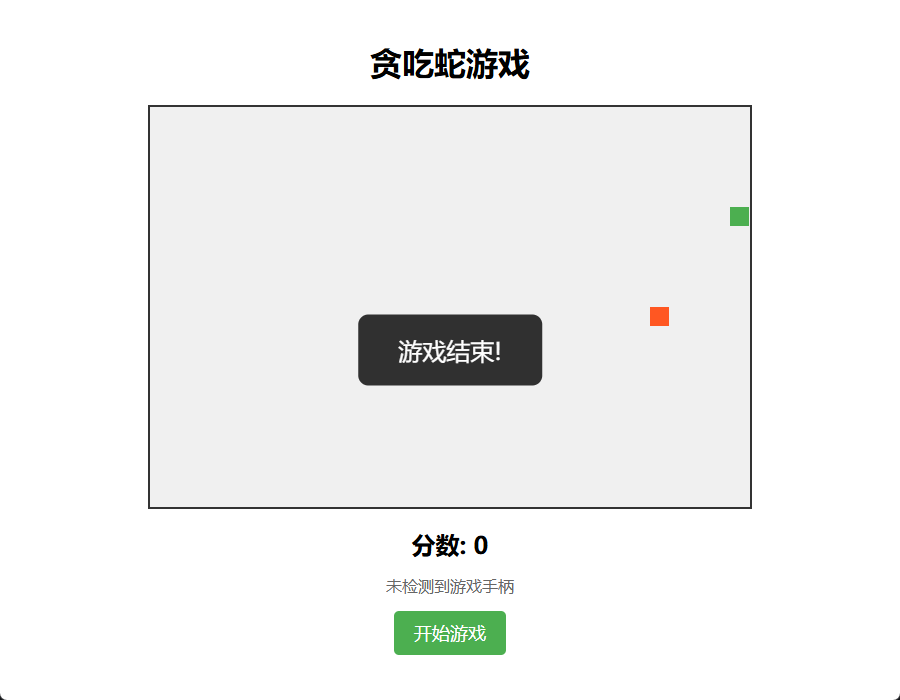
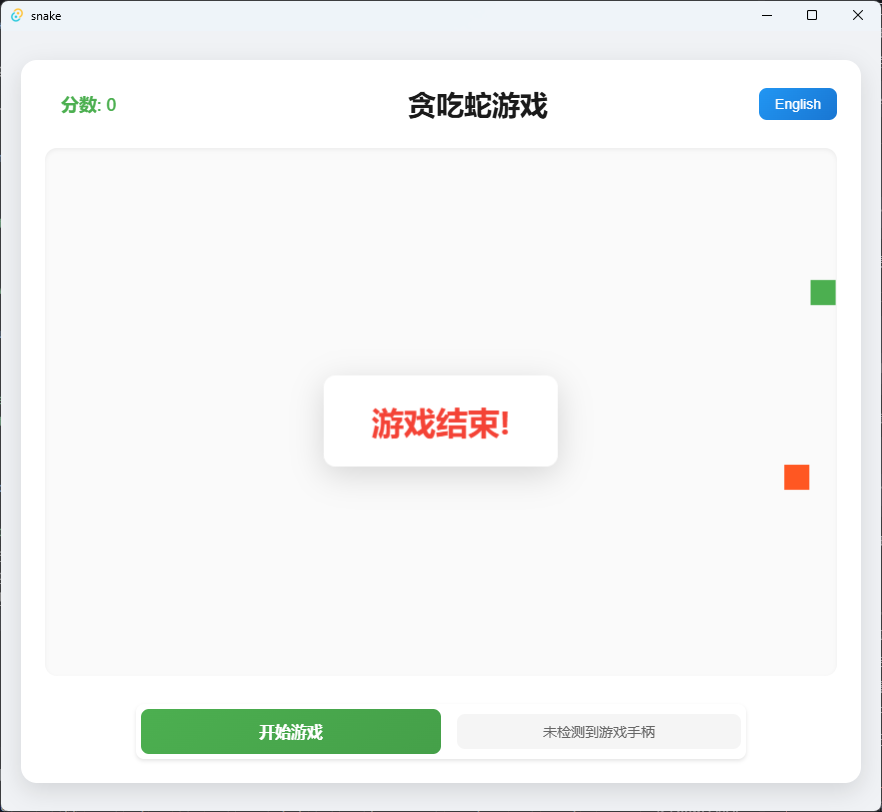
Update the png

diff --git a/README.md b/README.md
@@ -12,6 +12,8 @@ A snake game developed with Tauri + Vue 3.
 ### Game Over | 游戏失败界面
 ![Game Over Screen](./png/failed.png)
 
+![Game Over Screen](./png/English.png)
+
 ### Execute | 执行
 
 ```sh
